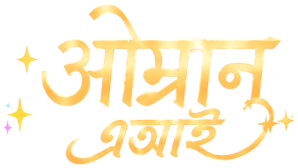
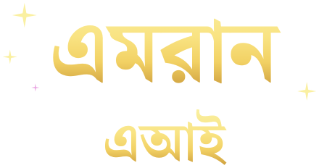
شعار البنغالية بالخط البنغالي الصحيح «এমরান এআই»
شعار brand-bn.png كان مكتوبًا بالخط الهندي (ديفاناغاري) بالخطأ — استُبدل
بشعار مولّد بخط Noto Serif Bengali بنفس التدرج الذهبي الأصلي
(#faf0a1→#f9e382→#f2d164→#ba842a) وبنفس تنسيق العائلة: الاسم كبيرًا
وتحته «এআই» مع اللمعات، خلفية شفافة وارتفاع 168. عرض العرض حُدّث 75→80
في الخريطتين (BRAND_L10N_W وسكربت v-brand-noflash). بقية اللغات لم تُمس.

diff --git a/index.html b/index.html
@@ -172,7 +172,7 @@ html[data-mode="light"] .msg-text a{ color:#0d9488 !important; }
       (function(){try{
         var l = localStorage.getItem('aiapp_lang') || 'ar';
         if(l === 'ar') return;
-        var W = { zh:84, hi:71, es:87, fr:89, bn:75, ru:89, ur:75, id:86, fil:93, tr:75, ne:69, ml:110 };
+        var W = { zh:84, hi:71, es:87, fr:89, bn:80, ru:89, ur:75, id:86, fil:93, tr:75, ne:69, ml:110 };
         var s = W[l] ? ('icons/brand-' + l + '.png') : 'icons/brand-en.png';
         var w = W[l] || 161;
         document.getElementById('brandTitle').innerHTML = '<img src="' + s + '" alt="Omran Ai" class="brandImg" width="' + w + '" height="42">';
@@ -436,7 +436,7 @@ html[data-mode="light"] .msg-text a{ color:#0d9488 !important; }
 <script src="/js/selfdiag.js?v=1ba33c1a"></script>
 <script defer src="/templates-data.js?v=589"></script>
     <script>/* v399: كمبيوتر — اللوحة اليسرى تبدأ مطويّة لأول زيارة فقط؛ اختيار المستخدم بعدها محفوظ */try{if(localStorage.getItem('waCollapsed')===null&&innerWidth>860)localStorage.setItem('waCollapsed','1');}catch(e){}</script>
-    <script defer src="/js/app.bundle.js?v=e9153b79"></script>
+    <script defer src="/js/app.bundle.js?v=633094bd"></script>
     <script defer src="/js/modes.js?v=b23329c6"></script>
 <!-- ======================= 🎓 دروسي (Edu Hub) — self-contained block ======================= -->
 <div id="eduHubModal" role="dialog" aria-modal="true">

diff --git a/js/app.bundle.js b/js/app.bundle.js
@@ -18693,7 +18693,7 @@ btnToggleHistory.onclick = () => { switchWorkTab('code'); openDrawer(workareaEl)
   /* v-brand-l10n (طلب المالك ٢٩ أغسطس): شعار ذهبي مخصوص لكل لغة — العربي
      والإنجليزي كما هما بلا أي تغيير. الأعراض عند ارتفاع 42 من ملفات PNG
      الفعلية (الأصل 168px = ٤×). لغة بلا شعار خاص ترجع للإنجليزي. */
-  const BRAND_L10N_W = { zh:84, hi:71, es:87, fr:89, bn:75, ru:89, ur:75, id:86, fil:93, tr:75, ne:69, ml:110 };
+  const BRAND_L10N_W = { zh:84, hi:71, es:87, fr:89, bn:80, ru:89, ur:75, id:86, fil:93, tr:75, ne:69, ml:110 };
   const syncBrand = () => {
     const bt = document.getElementById('brandTitle');
     const l = (typeof lang !== 'undefined' && lang) ? lang : 'ar';

diff --git a/js/app-10-features.js b/js/app-10-features.js
@@ -657,7 +657,7 @@ btnToggleHistory.onclick = () => { switchWorkTab('code'); openDrawer(workareaEl)
   /* v-brand-l10n (طلب المالك ٢٩ أغسطس): شعار ذهبي مخصوص لكل لغة — العربي
      والإنجليزي كما هما بلا أي تغيير. الأعراض عند ارتفاع 42 من ملفات PNG
      الفعلية (الأصل 168px = ٤×). لغة بلا شعار خاص ترجع للإنجليزي. */
-  const BRAND_L10N_W = { zh:84, hi:71, es:87, fr:89, bn:75, ru:89, ur:75, id:86, fil:93, tr:75, ne:69, ml:110 };
+  const BRAND_L10N_W = { zh:84, hi:71, es:87, fr:89, bn:80, ru:89, ur:75, id:86, fil:93, tr:75, ne:69, ml:110 };
   const syncBrand = () => {
     const bt = document.getElementById('brandTitle');
     const l = (typeof lang !== 'undefined' && lang) ? lang : 'ar';

diff --git a/sw.js b/sw.js
@@ -1,4 +1,4 @@
-const CACHE_NAME = 'omran-ai-builder-uniform-black-e9153b79';
+const CACHE_NAME = 'omran-ai-builder-uniform-black-633094bd';
 const STATIC_ASSETS = [
   './',
   './index.html',
